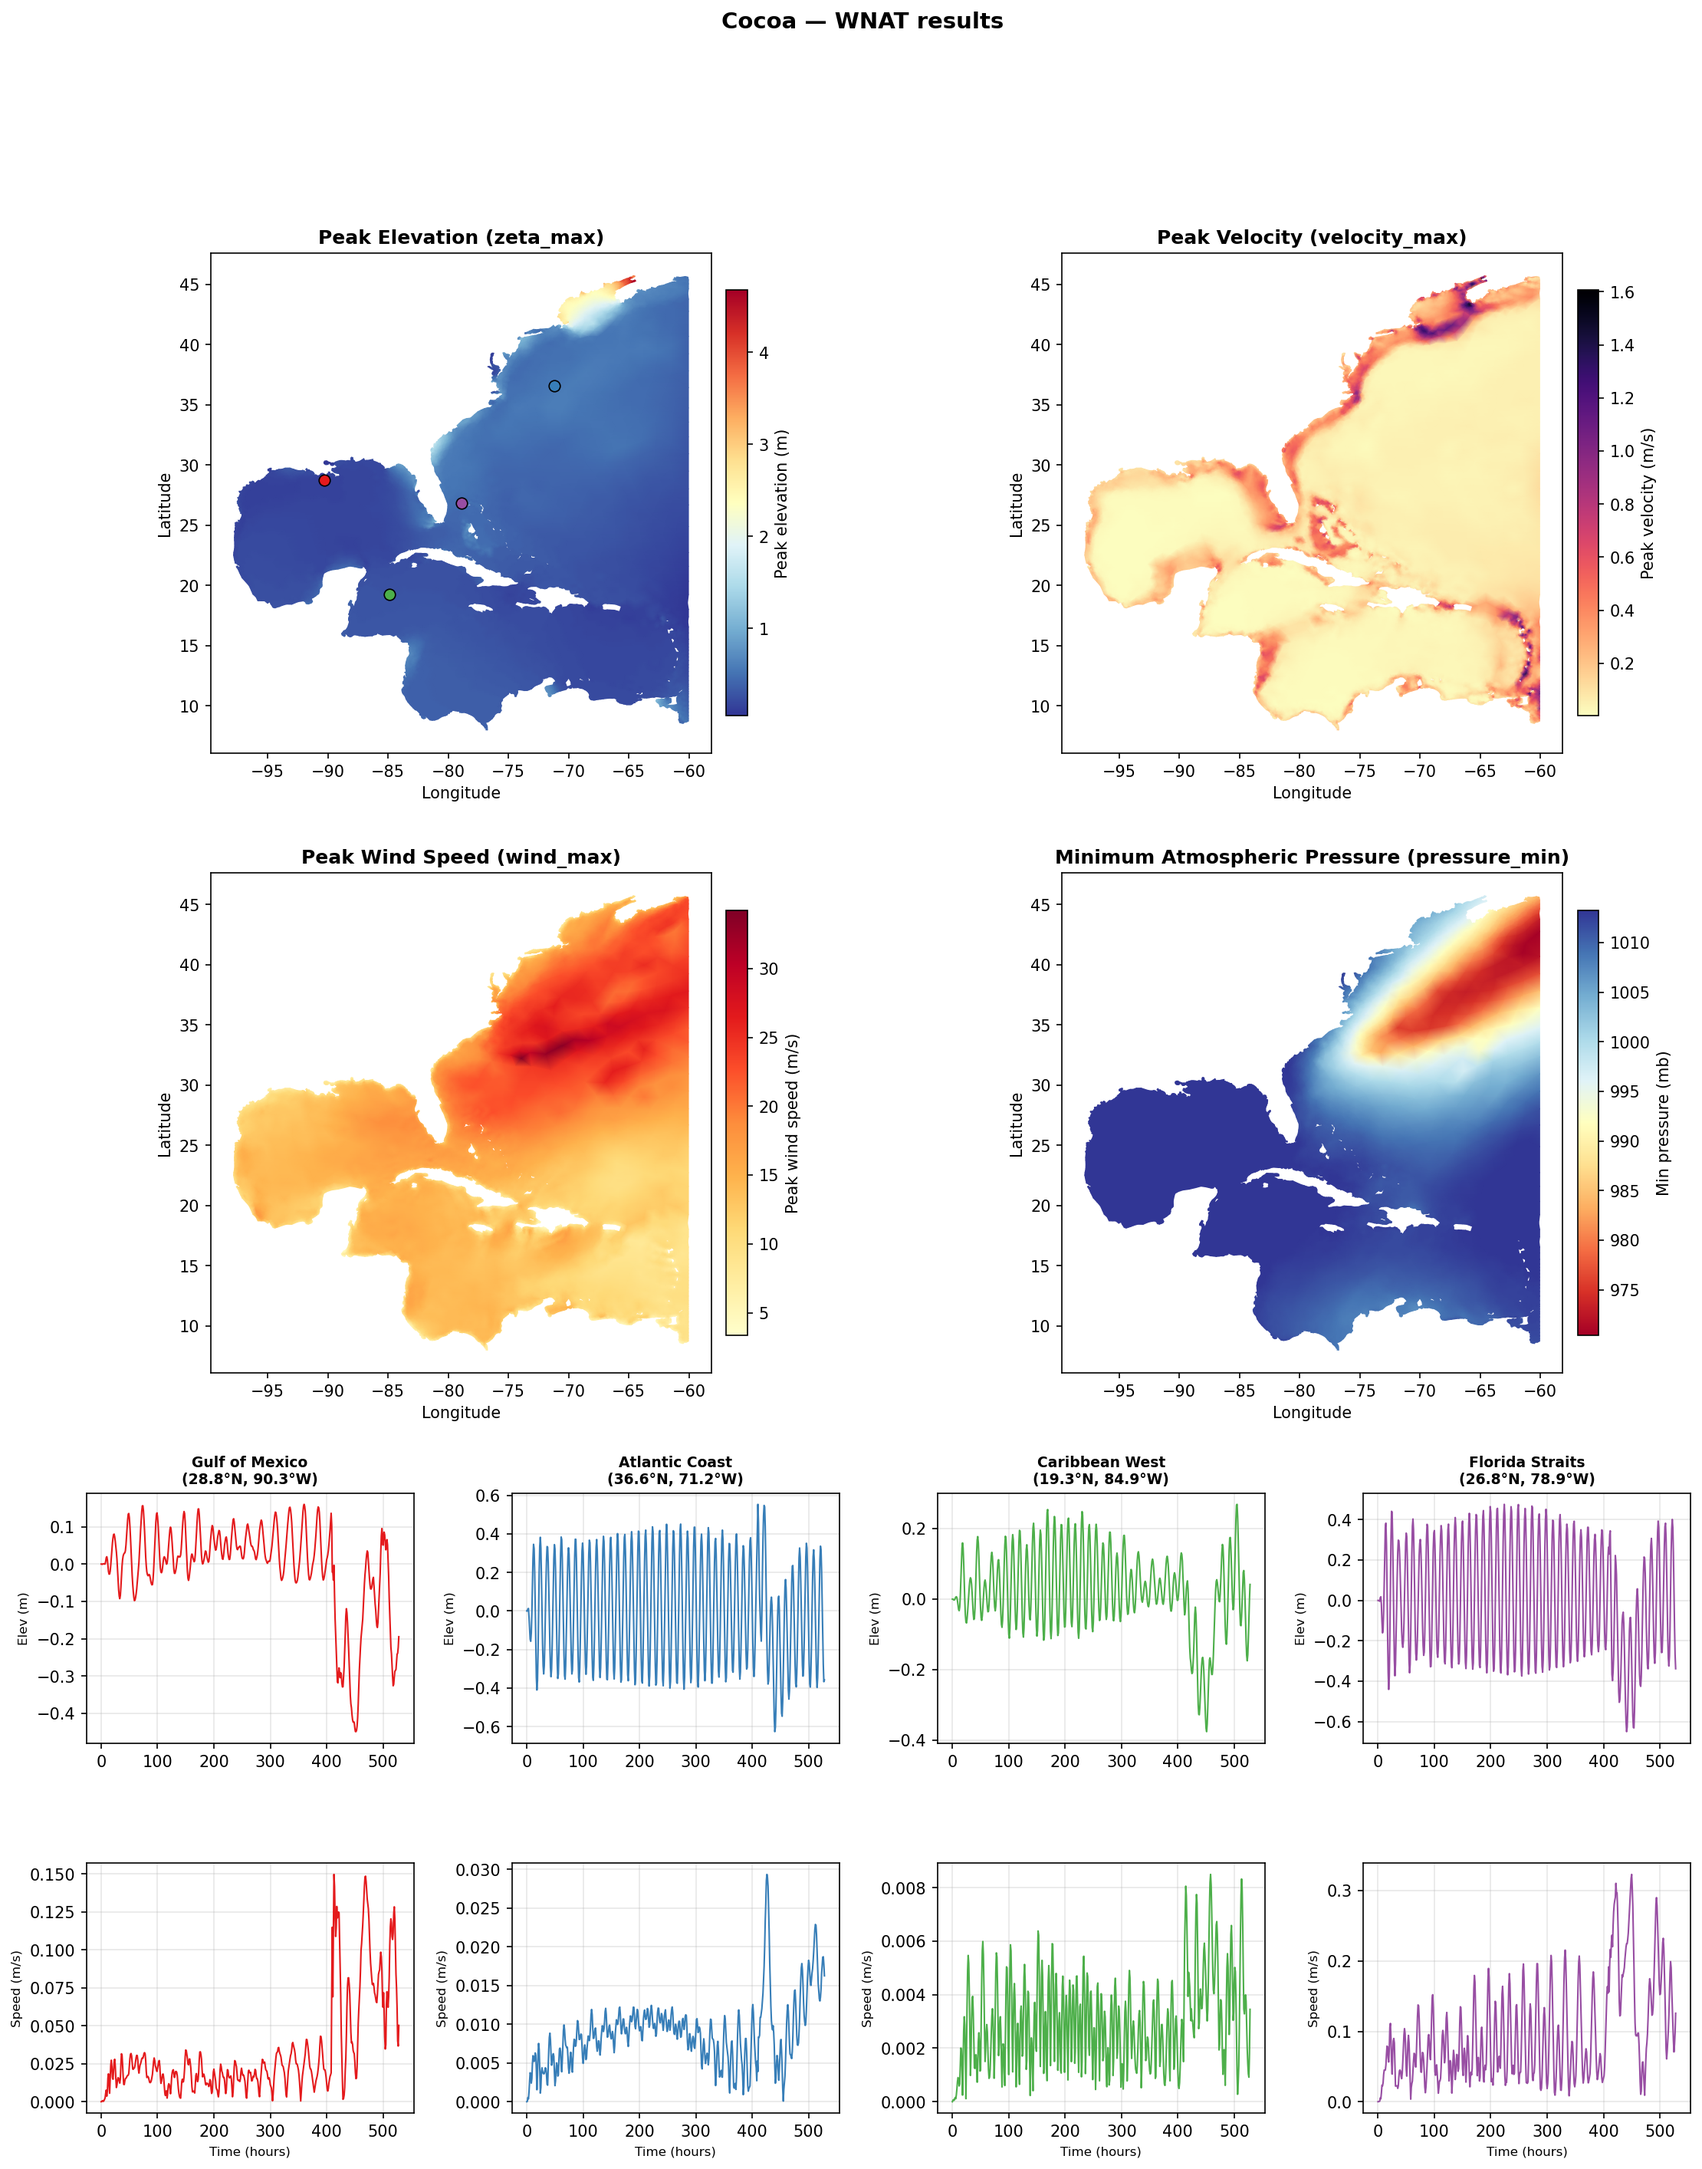
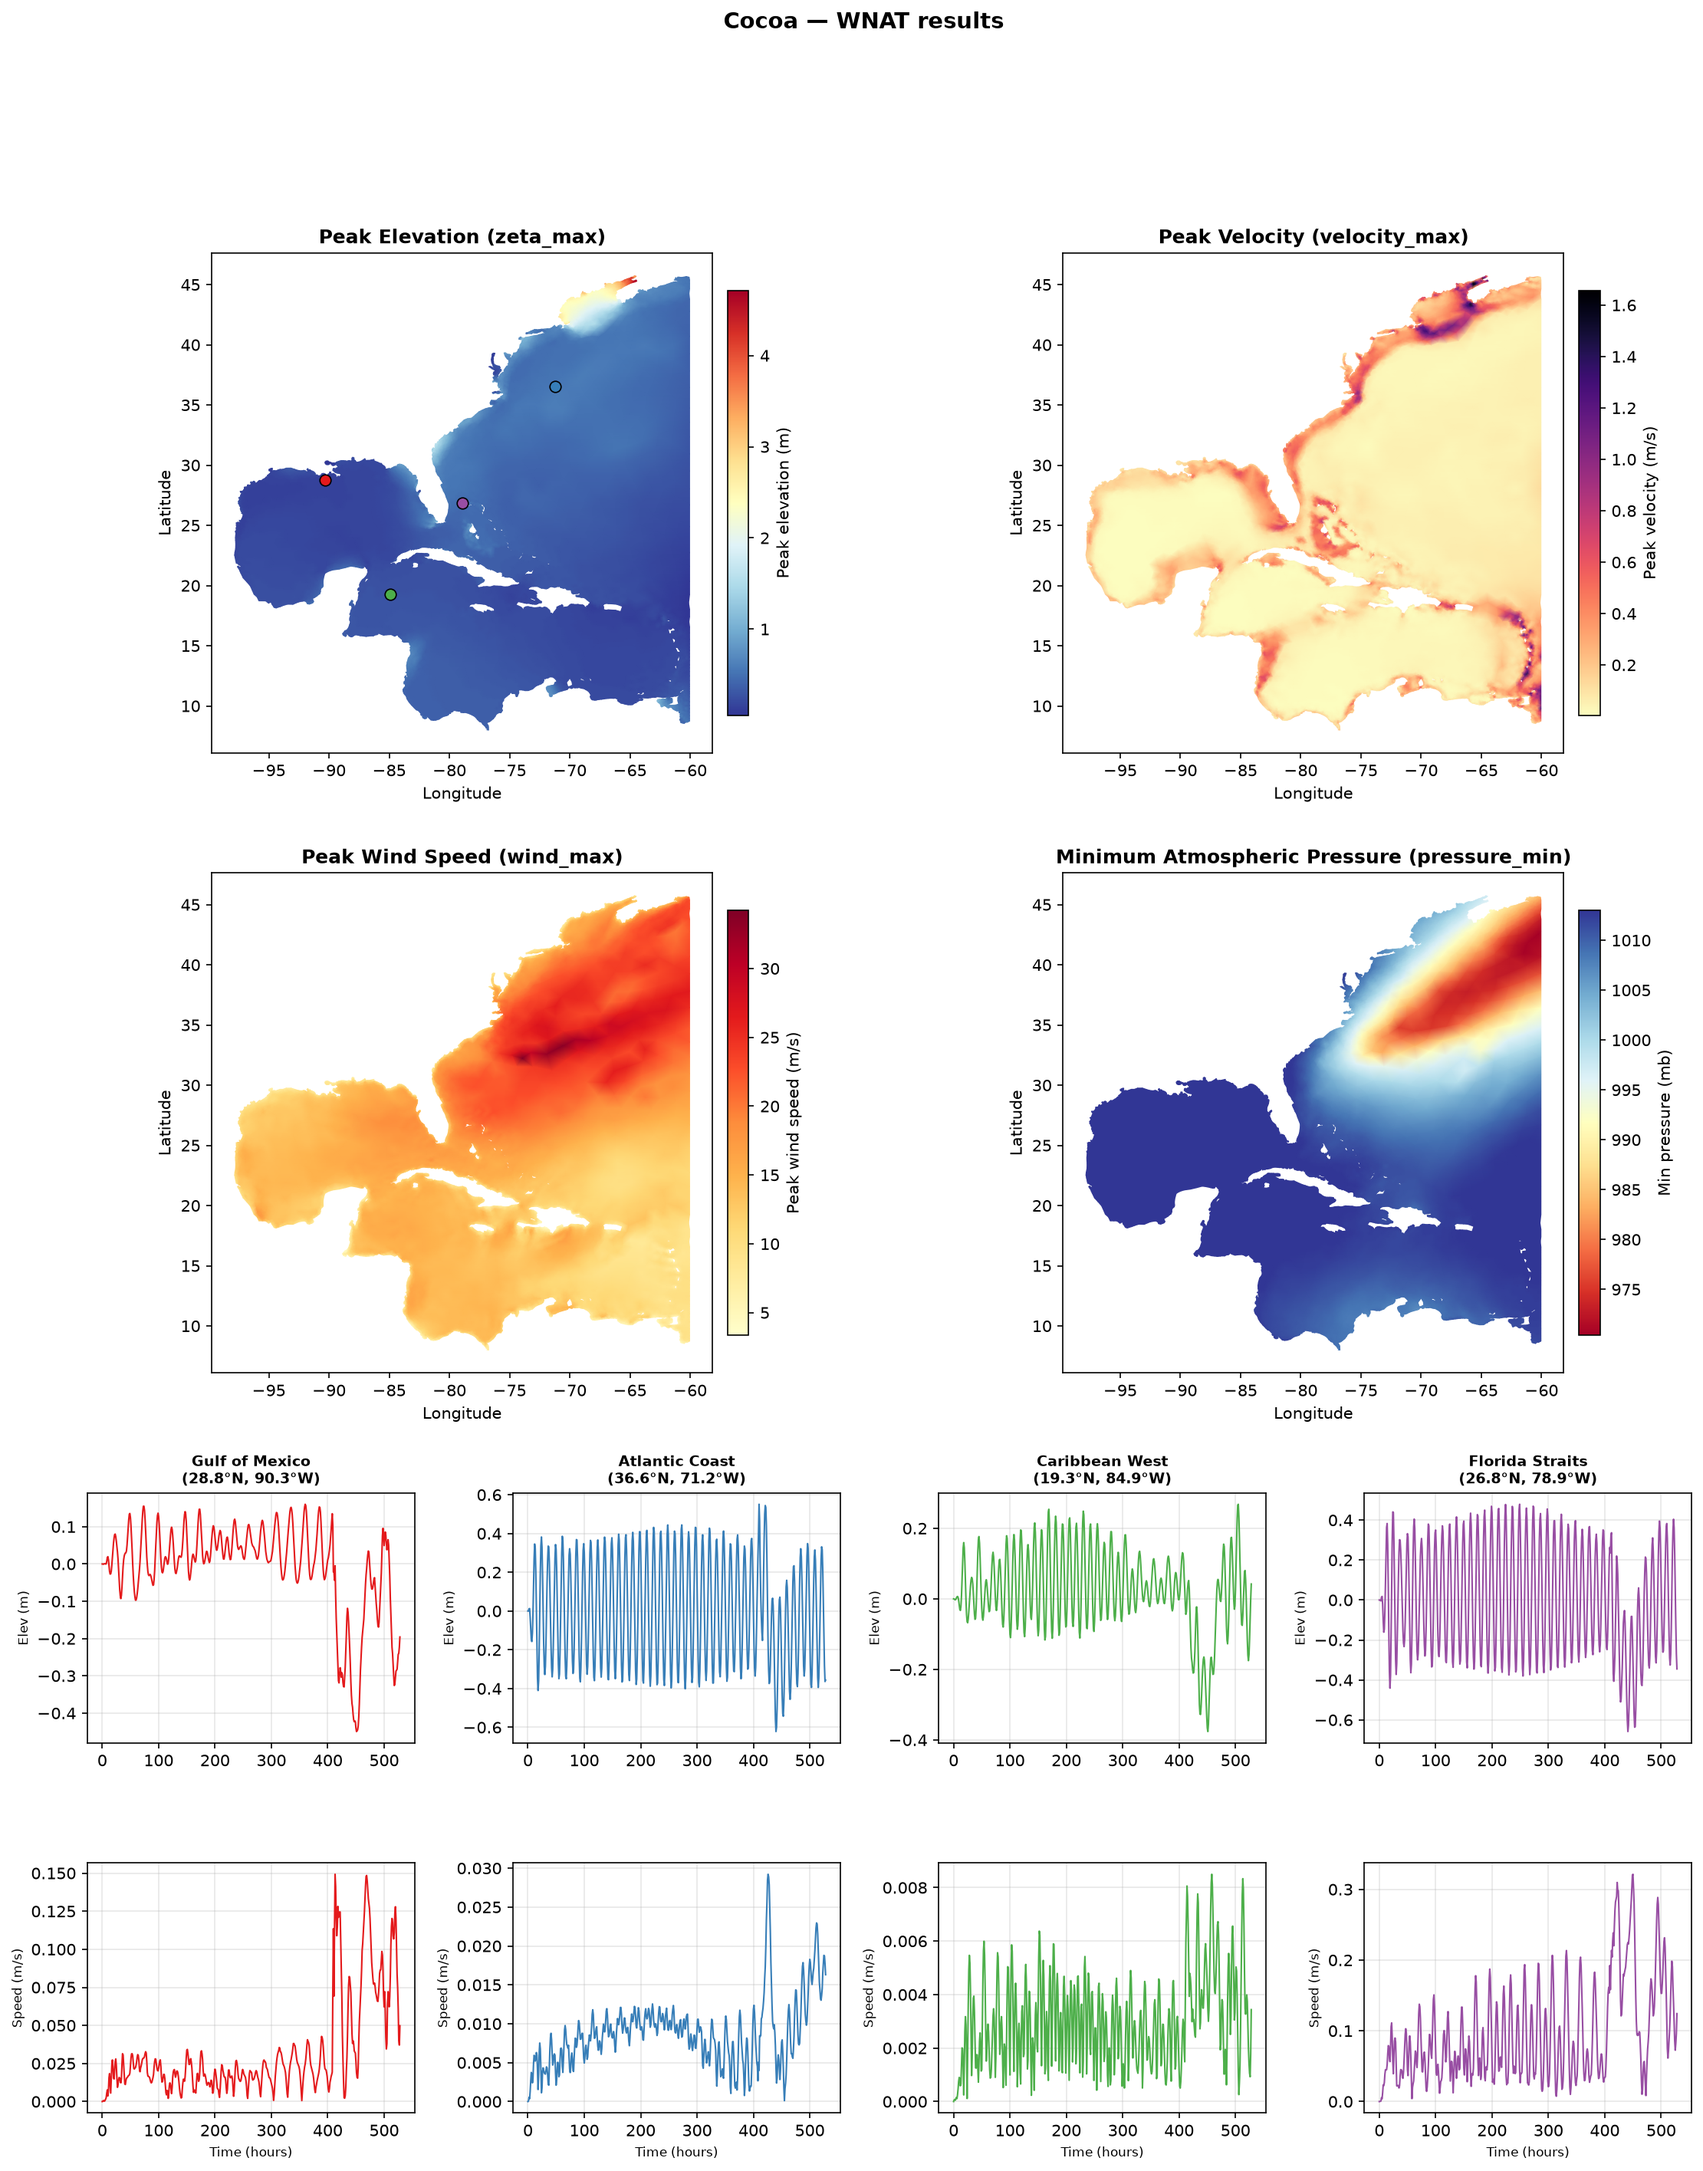
Update wnat to the current input and output formats
Grouped mesh layout (mesh id unchanged), output keys under
output.global, and a plot script that reads lon/lat and the split peak
file. All three meteorological formats run on the current build; the
figure is regenerated from the CF run.

diff --git a/wnat/plot_results.py b/wnat/plot_results.py
@@ -29,9 +29,12 @@ COCOA_DRY = -99990.0
 def load_cocoa_output(output_path):
     """Load Cocoa output NetCDF and return a dict of arrays."""
     ds = Dataset(output_path, "r")
+    # Peak fields go to <name>_peak.nc unless output.global.mode is combined.
+    peak_path = Path(output_path).with_name(Path(output_path).stem + "_peak.nc")
+    pk = Dataset(peak_path, "r") if peak_path.exists() else ds
     data = {}
-    data["x"] = np.array(ds.variables["x"][:])
-    data["y"] = np.array(ds.variables["y"][:])
+    data["x"] = np.array(ds.variables["lon"][:])
+    data["y"] = np.array(ds.variables["lat"][:])
     data["depth"] = np.array(ds.variables["depth"][:])
     data["elements"] = np.array(ds.variables["element"][:]) - 1
 
@@ -44,14 +47,16 @@ def load_cocoa_output(output_path):
 
     zeta_max = None
     vel_max = None
-    if "zeta_max" in ds.variables:
-        zeta_max = np.array(ds.variables["zeta_max"][:])
-    if "velocity_max" in ds.variables:
-        vel_max = np.array(ds.variables["velocity_max"][:])
-    if "wind_max" in ds.variables:
-        data["wind_max"] = np.array(ds.variables["wind_max"][:])
-    if "pressure_min" in ds.variables:
-        data["pressure_min"] = np.array(ds.variables["pressure_min"][:])
+    if "zeta_max" in pk.variables:
+        zeta_max = np.array(pk.variables["zeta_max"][:])
+    if "velocity_max" in pk.variables:
+        vel_max = np.array(pk.variables["velocity_max"][:])
+    if "wind_max" in pk.variables:
+        data["wind_max"] = np.array(pk.variables["wind_max"][:])
+    if "pressure_min" in pk.variables:
+        data["pressure_min"] = np.array(pk.variables["pressure_min"][:])
+    if pk is not ds:
+        pk.close()
     ds.close()
 
     if zeta_max is None or np.all(zeta_max <= COCOA_DRY):
